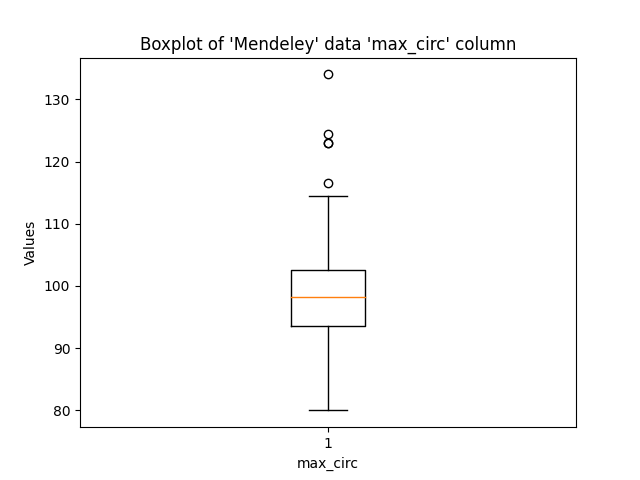
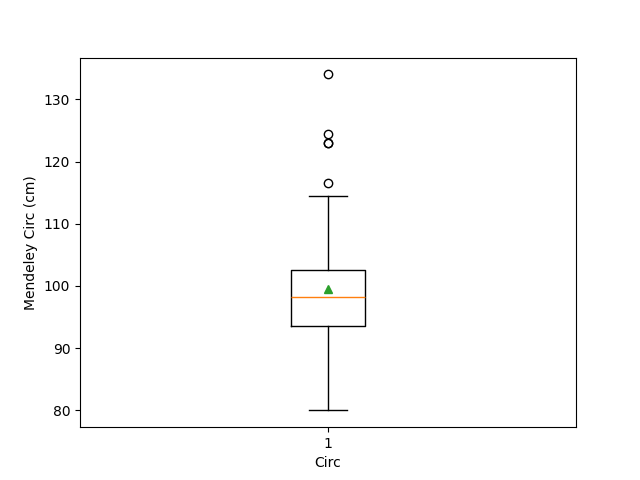
commit

diff --git a/mychapters/results.tex b/mychapters/results.tex
@@ -4,6 +4,7 @@
 The workshop study had 8 participants, 6 of whom reach the finished garment stage and fit evaluation (Figure \ref{fig:workshop_garments}). All participants used a 150 cm bolt.
 
 They had a mean maximum bodice circumference of 99.96 cm, median of 98.50 cm and a standard deviation of 8.00 cm (Figure \ref{fig:workshop_max_circ}). The mean shirt length was 60.36 cm, median of 59.70 cm, and a standard deviation of 6.99 cm (Figure \ref{fig:workshop_shirt_length}).
+
 Figure \ref{fig:workshop_bolt_widths} shows the difference between the ideal bolt widths and the used bolt. Figure \ref{fig:workshop_efficiency_bar} shows the difference between the ideal and used efficiency values. Efficiencies and cut loss areas distributions are shown in Figure \ref{fig:workshop_efficiency_boxplot} and Figure \ref{fig:workshop_cut_loss_area}.
 \newpage
 \begin{figure} [H]
@@ -83,56 +84,66 @@ Lastly, responses to the Likert scales are graphed (Figures \ref{fig:fit_likert}
 
 
 \section{Body Scans Study}
+The body scans study had 100 participants. 
 
-The median is a measure of central tendency that is less affected by extreme values than the mean so should use that when many outliers present ???
+They had a mean maximum bodice circumference of 99.58 cm, median of 98.25 cm and a standard deviation of 8.61 cm (Fig R.10). The mean and median are close, indicating a relatively symmetrical distribution with a slight skew towards larger values. There is moderate variability (standard deviation of 8.613), with some outliers above 110 cm. The mean shirt length is 62.40 cm, median of 64.5 cm, and a standard deviation of 6.72 cm (Fig R.11).
 
-\subsection{Distibutions}
-Body Scans Study have a mean maximum bodice circumferemce of 99.58 cm, median of 98.25 cm and a standard deviation of 8.61 cm. The mean and median are close, indicating a relatively symmetrical distribution with a slight skew towards larger values. There is moderate variability (standard deviation of 8.613), with some outliers above 110 cm.
+The distributions of ideal efficiencies, bolt width, cut loss areas, cut loss widths are shown in Figures \ref{fig:body_scan_efficiency}, \ref{fig:body_scan_bolt_width}, \ref{fig:body_scan_cut_loss_area}, and \ref{fig:body_scan_cut_loss_width}.
 
-The mean shirt length is 62.40 cm, median of 64.5 cm, and a standard deviation of 6.72 cm. 
-
-\begin{figure}[htb]
+\begin{figure}[H]
     \centering
-    \begin{subfigure}[b]{0.45\textwidth}
-        \centering
-        \includegraphics[width=\textwidth]{Images/Mendeley_max_circ_Hist.png}
-        \caption{Histogram}
-    \end{subfigure}
-    \hfill
     \begin{subfigure}[b]{0.45\textwidth}
         \centering
         \includegraphics[width=\textwidth]{Images/Mendeley_max_circ_Boxplot.png}
-        \caption{Boxplot}
-    \end{subfigure}
-    \caption{Distribution of max bodice circumference for Body Scans Study}
-\end{figure}
-
-\begin{figure}[htb]
-    \centering
-    \begin{subfigure}[b]{0.45\textwidth}
-        \centering
-        \includegraphics[width=\textwidth]{Images/Mendeley_shirt_length_Boxplot.png}
-        \caption{Histogram}
+        \caption{Max bodice circumference}
+        \label{fig:body_scan_max_circ}
     \end{subfigure}
     \hfill
     \begin{subfigure}[b]{0.45\textwidth}
         \centering
-        \includegraphics[width=\textwidth]{Images/Mendeley_shirt_length_Hist.png}
-        \caption{Boxplot}
+        \includegraphics[width=\textwidth]{Images/Mendeley_shirt_length_Boxplot.png}
+        \caption{Shirt length}
+        \label{fig:body_scan_shirt_length}
     \end{subfigure}
-    \caption{Distribution of calculated shirt length for Body Scans Study}
+    \caption{Body scan participant input measurement boxplots}
 \end{figure}
 
-\subsubsection{Fabric Use}
-Efficiency, bolt width, cut loss width, and cut loss area for 100 scans study comparing ideal bolt and hypothetical used bolt.
-When using the ideal bolt width, the mean efficiency is 98\%, median efficiency is 98\%, and the standard deviation is 1\%. The mean ideal bolt width is 133 cm and median ideal bolt is 130 cm.
-\begin{figure} [H]
+\begin{figure}[H]
     \centering
-    \includegraphics[width = \textwidth]{Images/Mendeley_Plot.png} 
-    \caption{Used and Ideal Efficiency Metrics for 100 Scans Study}
+    \begin{subfigure}[b]{0.45\textwidth}
+        \centering
+        \includegraphics[width=\textwidth]{Images/Mendeley_bolt_width_ideal_Boxplot.png}
+        \caption{bolt width}
+        \label{fig:body_scan_bolt_width}
+    \end{subfigure}
+    \hfill
+    \begin{subfigure}[b]{0.45\textwidth}
+        \centering
+        \includegraphics[width=\textwidth]{Images/Mendeley_efficiency_ideal_Boxplot.png}
+        \caption{efficiency}
+        \label{fig:body_scan_efficiency}
+    \end{subfigure}
+    \vfill
+    \begin{subfigure}[b]{0.45\textwidth}
+        \centering
+        \includegraphics[width=\textwidth]{Images/Mendeley_cut_loss_width_ideal_Boxplot.png}
+        \caption{cut loss width}
+        \label{fig:body_scan_cut_loss_width}
+    \end{subfigure}
+    \hfill
+    \begin{subfigure}[b]{0.45\textwidth}
+        \centering
+        \includegraphics[width=\textwidth]{Images/Mendeley_cut_loss_area_ideal_Boxplot.png}
+        \caption{cut loss area}
+        \label{fig:body_scan_cut_loss_area}
+    \end{subfigure}
+    \vfill
+    \caption{Body scan ideal case metrics}
 \end{figure}
 
-Cohort analysis
+\newpage
+Distributions of cut loss area, efficiency, and embellishment recouped were computed for a range of bolt widths. Data is present in Table \ref{tab:cohort_analysis} and the plots are shown in Figs (R.16, R.17, R.18) respectively
+
 \begin{table} [H]
     \centering
     \begin{tabular}{p{2cm}|p{2cm}|p{2cm}|p{2cm}|p{2cm}|p{2cm}|p{2cm}}
@@ -152,25 +163,41 @@ Cohort analysis
         165& 79.1\% & 78.3\% & 5.2\% & 3089.52 & 3250.13 & 782.20\\
         \end{tabular}
     \caption{Description of Cohort Analysis on Different Bolts for 100 Scans Study}
+    \label{tab:cohort_analysis}
 \end{table}
-\textbf{SHOULD CHANGE FORMAT OF GRAPHS BELOW BECAUSE NOT CONTINOUS???}
-\begin{figure}[H]
-    \centering
-    \begin{subfigure}[b]{0.45\textwidth}
-        \centering
-        \includegraphics[width=\textwidth]{Images/Cut Loss Mean for Different Bolt Widths for 100 scans.png}
-        \caption{Cut Loss Area}
-    \end{subfigure}
-    \hfill
-    \begin{subfigure}[b]{0.45\textwidth}
-        \centering
-        \includegraphics[width=\textwidth]{Images/Eff Mean for Different Bolt Widths for 100 scans.png}
-        \caption{Efficiency}
-    \end{subfigure}
-    \caption{Mean Cut Loss Area Used and Efficiency Used for Different Bolt Widths for 100 Scans Study}
-\end{figure}
 
-For this cohort, using a 140 cm wide fabric bolt minimises the cut loss area and maximises the efficiency.
+\begin{table}[H]
+    \centering
+    \captionsetup{font=small}
+    \begin{tabular}{
+        >{\centering\arraybackslash}p{1.5cm} | 
+        >{\centering\arraybackslash}p{2.5cm} | 
+        >{\centering\arraybackslash}p{2.5cm} | 
+        >{\centering\arraybackslash}p{2.5cm} | 
+        >{\centering\arraybackslash}p{3cm} | 
+        >{\centering\arraybackslash}p{3cm} | 
+        >{\centering\arraybackslash}p{3cm}
+    }
+        \toprule
+        \textbf{Bolt Width} & \textbf{Mean Eff} & \textbf{Median Eff} & \textbf{St Dev Eff} & \textbf{Mean Loss Area} & \textbf{Median Loss Area} & \textbf{St Dev Loss Area} \\
+        \midrule
+        110 & 81.7\% & 83.6\% & 6.1\% & 2620.64 & 2318.0 & 889.32 \\
+        115 & 78.5\% & 80.0\% & 6.0\% & 3233.87 & 2922.75 & 937.46 \\
+        120 & 76.2\% & 77.1\% & 7.4\% & 3737.44 & 3556.88 & 1207.17 \\
+        125 & 78.7\% & 75.6\% & 12.1\% & 3526.84 & 4025.0 & 2097.15 \\
+        130 & 83.7\% & 91.7\% & 13.5\% & 2771.99 & 934.5 & 2542.75 \\
+        135 & 87.9\% & 92.9\% & 12.3\% & 1997.82 & 843.0 & 2501.29 \\
+        140 & 88.8\% & 91.1\% & 9.2\% & 1716.44 & 1131.0 & 2025.64 \\
+        145 & 87.3\% & 88.1\% & 8.1\% & 1865.09 & 1491.63 & 1849.15 \\
+        150 & 85.2\% & 85.5\% & 7.1\% & 2158.84 & 1890.75 & 1679.22 \\
+        155 & 83.3\% & 83.1\% & 6.2\% & 2418.42 & 2333.63 & 1388.62 \\
+        160 & 81.2\% & 80.6\% & 5.4\% & 2752.84 & 2795.13 & 1076.74 \\
+        165 & 79.1\% & 78.3\% & 5.2\% & 3089.52 & 3250.13 & 782.20 \\
+        \bottomrule
+    \end{tabular}
+    \caption{Description of Cohort Analysis on Different Bolts for 100 Scans Study}
+    \label{tab:cohort_analysis}
+\end{table}
 
 Count of pattern orientation on starting fabric and possibility of embellishment potential for various bolt widths ranging from 110 to 160 cm.
 \begin{figure} [H]
@@ -180,7 +207,6 @@ Count of pattern orientation on starting fabric and possibility of embellishment
 \end{figure}
 For the range of bolt widths between 110 and 160 cm, each pattern generated for the Mendeley dataset participants will fit in the regular or rotated orientation. No mitigation strategies need to be employed within this range of bolts.
 
-\textbf{ADD recoup of cut loss area due to embellishment}
 
 \section{Personal Case Study}
 Using the parameterisation method defined, the author's pattern width and pattern height is 128.5 cm and 98.5 cm, respectively. The obj file obtained from the 3D scan was imported into CLO3D as the avatar. The pattern pieces were both virtually sewed and draped (Figure \ref{fig:renderedCLO}) and the physically cut and sewed into the tangible garment (Figure \ref{fig:personal_garment}).
@@ -206,11 +232,4 @@ Using the parameterisation method defined, the author's pattern width and patter
     \end{subfigure}
     \caption{Custom shirt draped on personal scan in CLO3D}
     \label{fig:renderedCLO}
-\end{figure}
-
-\begin{figure} [H]
-    \centering
-    \includegraphics[width = \textwidth]{Images/Mendeley_Bar.png}
-    \caption{Custom shirt sample}
-    \label{fig:personal_garment}
 \end{figure}

diff --git a/mychapters/desengprocess.tex b/mychapters/desengprocess.tex
@@ -70,24 +70,22 @@ Notions (bindings, buttons, iron on interfacings, etc.) are not considered. Thes
 %%%%%%%%%%%%%%%%%%%%%%%%
 
 \subsection{Pattern Parameterisation}
-Now that the original garment type is understood, we can dissect the pattern into individual segments for parameterisation.
+This section dissects the original garment pattern into individual segments for parameterization. 
+
+There are a total of nine (1x body, 2x neck facing, 4x collar, 2x sleeve) pieces that make up the block (Figure \ref{fig:original pattern pieces}). Note that D and E combine to form the sleeve piece. There are no side seams on the shirt as there is just a single body piece, not a separate front and back. Parameters are defined in 
 \begin{figure} [H] 
     \centering 
     \includegraphics[width = \textwidth]{Images/originalpattern_pieces.png} 
     \caption{Shirt block pattern pieces}
+    \label{fig:original pattern pieces}
 \end{figure}
-There are a total of nine (1x body, 2x neck facing, 4x collar, 2x sleeve) pieces that make up the block. Note that D and E combine to form the sleeve piece. There are no side seams on the shirt as there is just a single body piece, not a separate front and back.
 
-\begin{table} [H] % this tells the compiler that a table environment is starting
-    \centering % this puts it in the horizontal centre of the page
-    %\rowcolors{1}{}{Gray} % this sets up the alternating grey/white background
-    \begin{tabular}{p{2cm}|p{5cm}} % this sets up the tabular environment ant states the width of the columns, you could use an equation here using the \textwidth, but i have no experience with this. 
-    
-        %the following lines populate the table with data. They follow the pattern
-        % item & item & item & item \\
-        % where the ampersand denotes a vertical line, and the double slash, a new line.
+
+\begin{table} [H] 
+    \centering
+    \begin{tabular}{p{2cm}|p{5cm}} 
         \textbf{Shortform} & \textbf{Parameter}\\
-        \hline % this produces a horizontal line, this could be used elsewhere in the table
+        \hline 
         pw& pattern width\\
         ph& pattern height\\
         cw& collar piece width\\
@@ -99,11 +97,13 @@ There are a total of nine (1x body, 2x neck facing, 4x collar, 2x sleeve) pieces
         al& armhole length
         \end{tabular}
     \caption{Pattern Parameters Table}
+    \label{tab:pattern params}
 \end{table}
-\begin{figure} [h] % opens the figure environment. the '[H]' forces the image to be Here
-    \centering % puts the image in the horizontal centre of the page
-    \includegraphics[width = \textwidth]{Images/pattern params.png} %this tells latex what graphics to include. I put my images in an 'Images' folder to aid file management, hence the Images/ before the file name. the width bit before allows you to alter the width of the image. It is also possible to use scale as well as using equations with the textwidth to make it say half the text width.
+\begin{figure} [h]
+    \centering
+    \includegraphics[width = \textwidth]{Images/pattern params.png}
     \caption{Pattern Parameters Diagram}
+    \label{fig:pattern params}
 \end{figure}
 
 The process for parameterising was based on traditional measurements professionals use for a tailored shirt. How these measurements can translate into algorithm for the pattern parameterisation was investigated.

diff --git a/main.tex b/main.tex
@@ -32,6 +32,7 @@
 \usepackage{caption} %allows captions for graphics
 \usepackage[nottoc]{tocbibind} %adds the bibliography to the table of contents
 \usepackage{subcaption} %allows subcaption for multiple images in one graphic
+\usepackage{array}
 
 \PassOptionsToPackage{hyphens}{url}\usepackage{hyperref}
 \usepackage{hyperref} %this is great for putting hyperreferences in the document.
@@ -85,7 +86,7 @@
 
 \input{mychapters/discussion.tex}
 
-\input{mychapters/reflection.tex}
+%\input{mychapters/reflection.tex}
 
 \input{mychapters/conclusion.tex}
 
